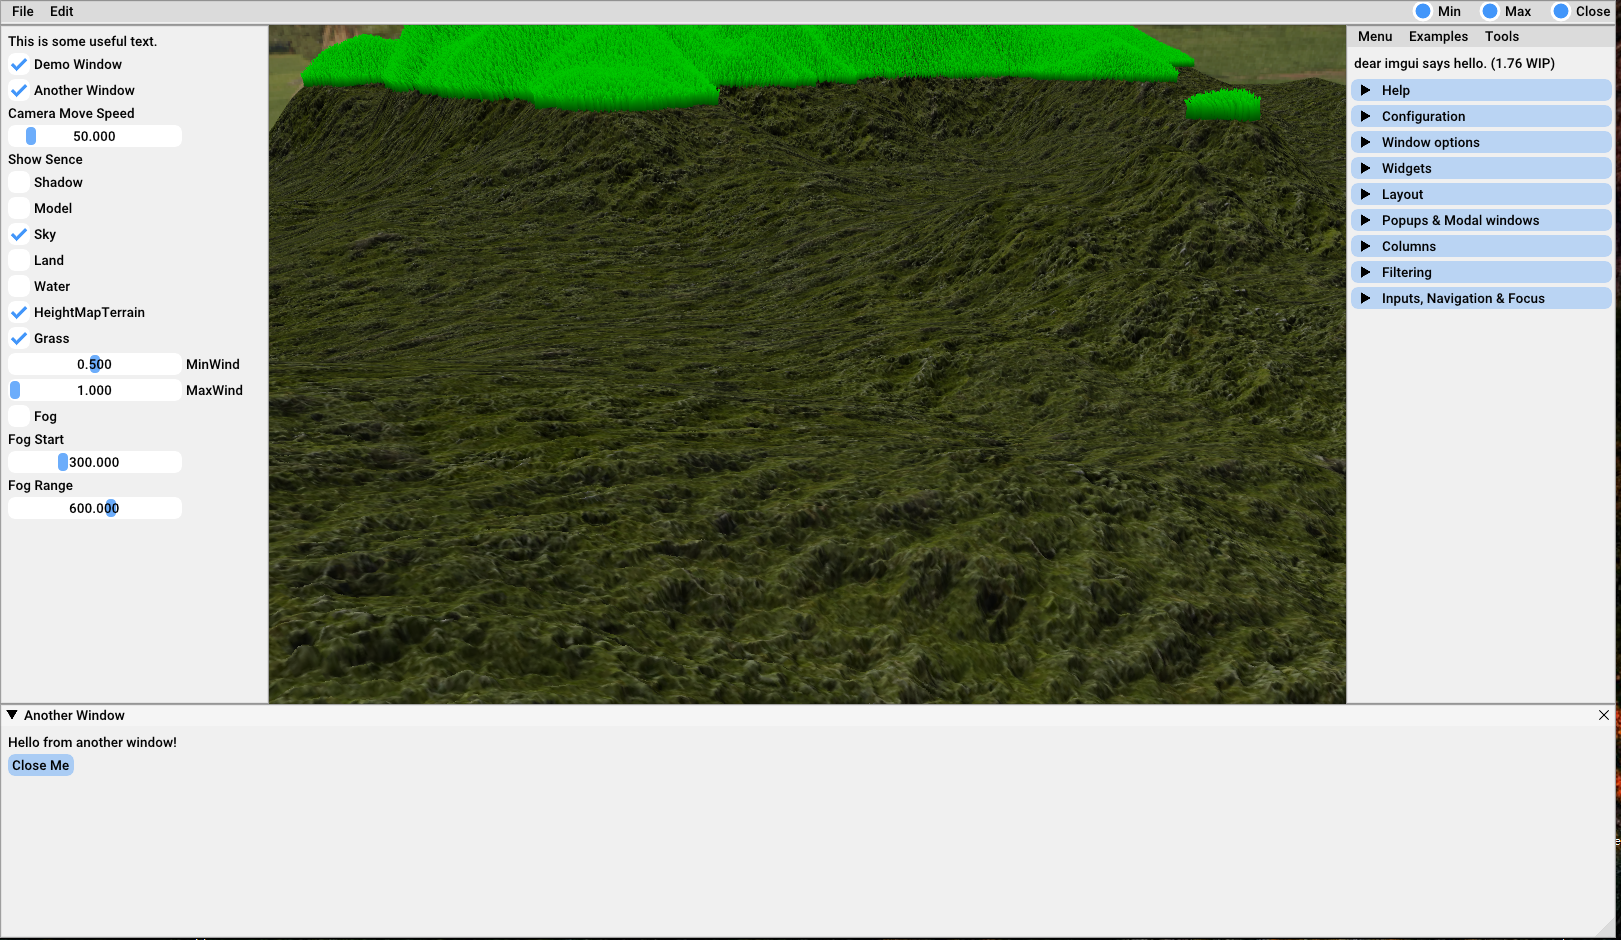
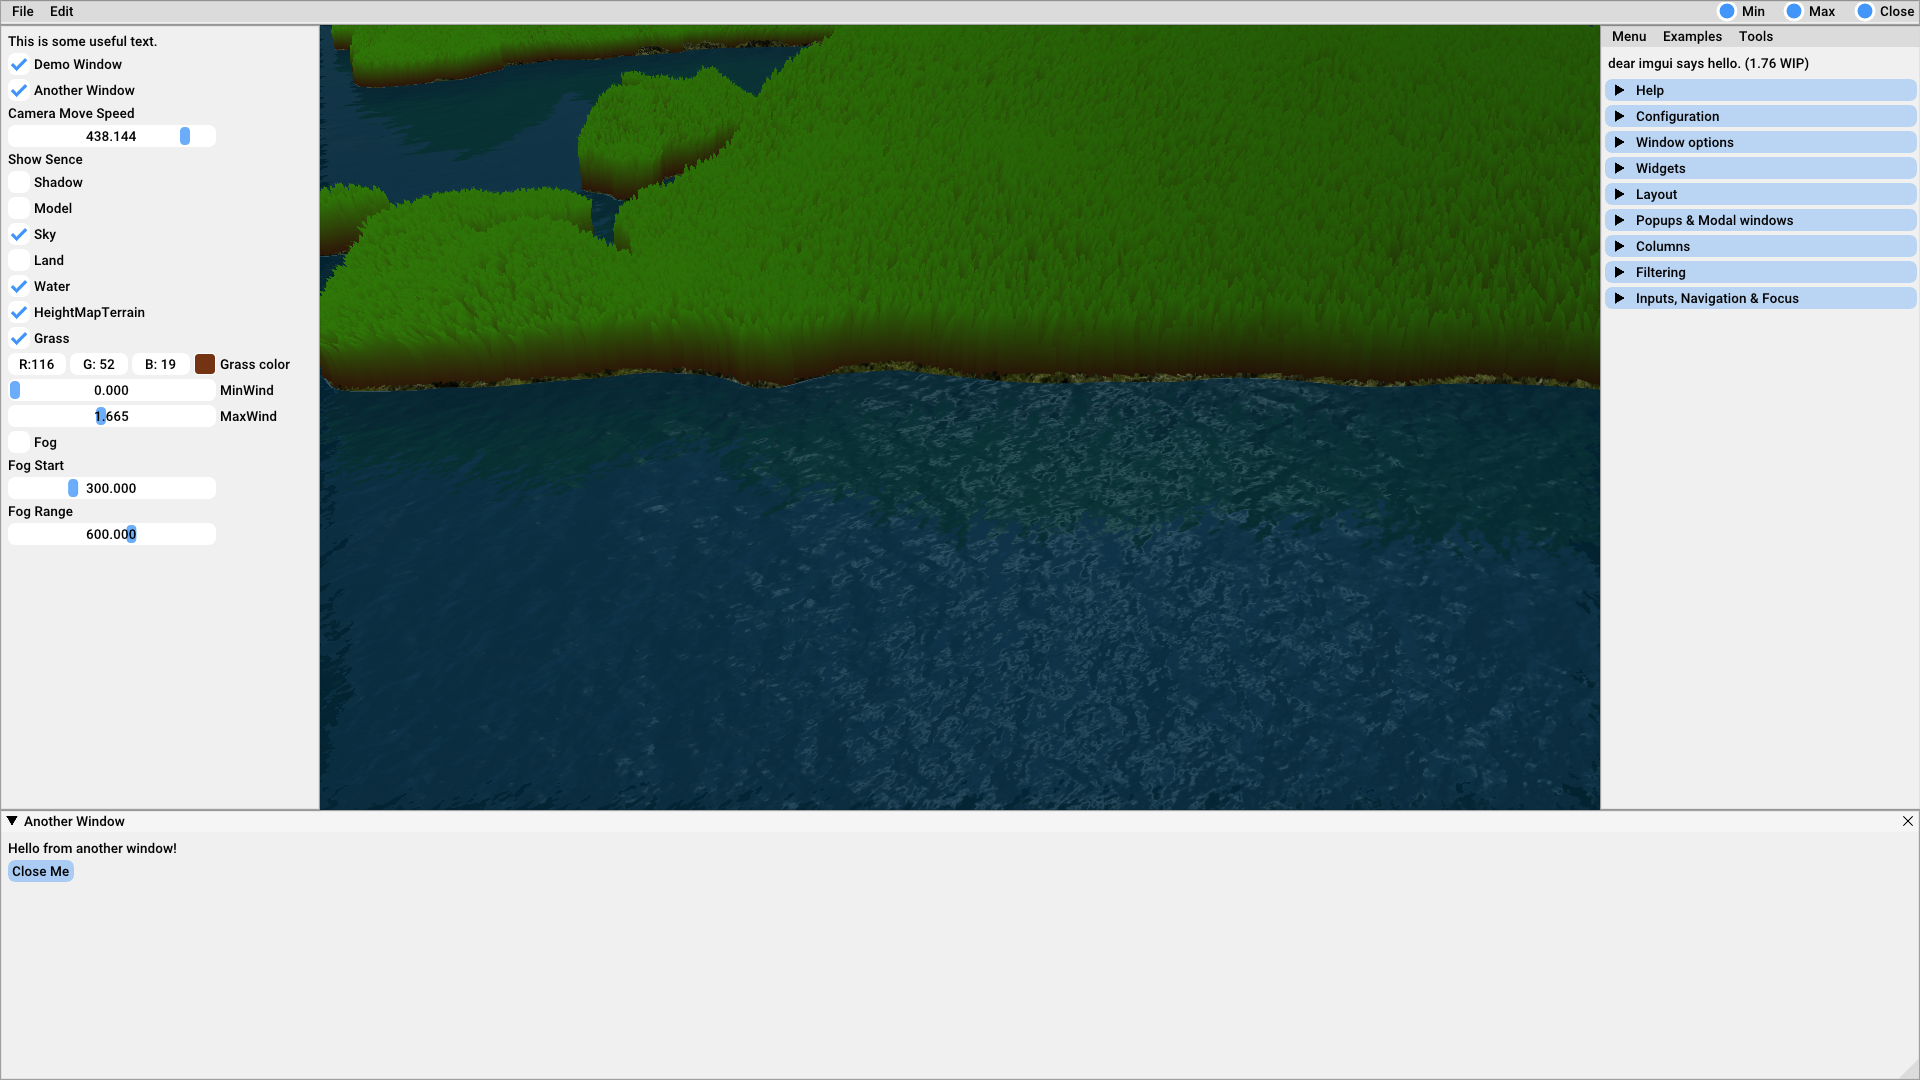
update grass and ui

diff --git a/GlareEngine/EngineCore/Private/L3DBaseApp.cpp b/GlareEngine/EngineCore/Private/L3DBaseApp.cpp
@@ -165,10 +165,10 @@ void D3DApp::OnResize()
 	mScreenViewport.Height = mClientHeight;// static_cast<float>(mClientHeight * 0.75f - MainMenuBarHeight);
 	mScreenViewport.MinDepth = 0.0f;
 	mScreenViewport.MaxDepth = 1.0f;
-	mScissorRect = { static_cast<LONG>(0),
-		static_cast<LONG>(0),
-		static_cast<LONG>(mClientWidth ),
-		static_cast<LONG>(mClientHeight ) };
+	mScissorRect = { static_cast<LONG>(mClientWidth * 1.0f / 6.0f),
+		static_cast<LONG>(MainMenuBarHeight),
+		static_cast<LONG>(static_cast<float>(mClientWidth * 5.0f / 6.0f)),
+		static_cast<LONG>(static_cast<float>(mClientHeight * 0.75f)) };
 
 
 

diff --git a/GlareEngine/EngineEditor/ImgUIEditor/EngineGUI.cpp b/GlareEngine/EngineEditor/ImgUIEditor/EngineGUI.cpp
@@ -117,9 +117,12 @@ void EngineGUI::DrawUI(ID3D12GraphicsCommandList* d3dCommandList)
 			ImGui::Checkbox("Land", &show_land);
 			ImGui::Checkbox("Water", &show_water);
 			ImGui::Checkbox("HeightMapTerrain", &show_HeightMapTerrain);
+
 			ImGui::Checkbox("Grass", &show_Grass);
+			ImGui::ColorEdit3("Grass color", mGrassColor,0);
 			ImGui::SliderFloat("MinWind", &GrassMinWind, 0.0f, 1.0f);
 			ImGui::SliderFloat("MaxWind", &GrassMaxWind, 1.0f, 2.5f);
+
 			ImGui::Checkbox("Fog", &FogEnabled);
 			ImGui::Text("Fog Start");
 			ImGui::SliderFloat(" ", &FogStart, 0.0f, 1000.0f);

diff --git a/GlareEngine/EngineEditor/ImgUIEditor/EngineGUI.h b/GlareEngine/EngineEditor/ImgUIEditor/EngineGUI.h
@@ -35,6 +35,8 @@ public:
 	float GetGrassMinWind()const { return GrassMinWind; }
 	float GetGrassMaxWind()const { return GrassMaxWind; }
 
+	XMFLOAT3 GetGrassColor()const { return XMFLOAT3(mGrassColor); }
+
 	static bool mWindowMaxSize;
 private:
 	bool show_demo_window = true;
@@ -55,6 +57,10 @@ private:
 
 	float GrassMinWind = 0.5f;
 	float GrassMaxWind = 1.0f;
+
+
+	float mGrassColor[3] = { 0.39f,0.196f,0.0f };
+
 
 	ID3D12DescriptorHeap* mGUISrvDescriptorHeap = nullptr;
 

diff --git a/GlareEngine/EngineMain/Private/GameMain.cpp b/GlareEngine/EngineMain/Private/GameMain.cpp
@@ -2053,6 +2053,7 @@ void GameApp::UpdateTerrainPassCB(const GameTimer& gt)
 	mTerrainConstant.gRGBNoiseMapIndex = mRGBNoiseMapIndex;
 	mTerrainConstant.gMinWind = mEngineUI->GetGrassMinWind();
 	mTerrainConstant.gMaxWind = mEngineUI->GetGrassMaxWind();
+	mTerrainConstant.gGrassColor = mEngineUI->GetGrassColor();
 
 	auto currPassCB = mCurrFrameResource->TerrainCB.get();
 	currPassCB->CopyData(0, mTerrainConstant);

diff --git a/GlareEngine/EngineMain/Public/FrameResource.h b/GlareEngine/EngineMain/Public/FrameResource.h
@@ -117,6 +117,7 @@ struct TerrainConstants
 
 	float gMinWind=0.0f;
 	float gMaxWind=0.0f;
+    XMFLOAT3 gGrassColor;
 };
 
 
